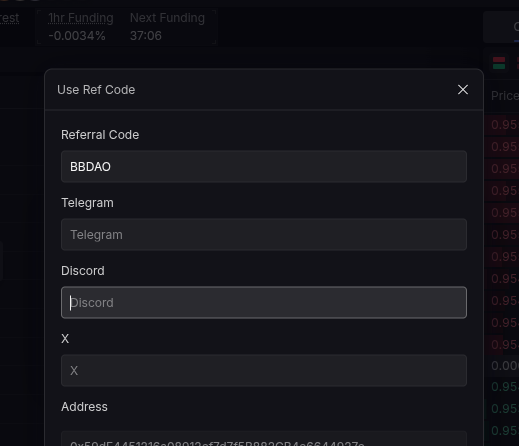
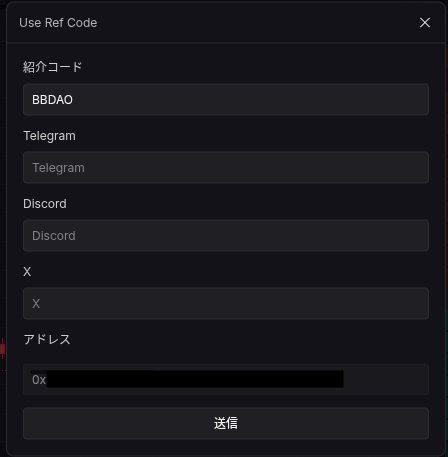
トラブルシュートガイドの説明文とスクリーンショットを更新

diff --git a/troubleshoot/index.html b/troubleshoot/index.html
@@ -241,7 +241,8 @@
           <div class="step-body">
             <h3>リファラルコードを登録</h3>
             <p>「Use Ref Code」の画面が表示されます。<br>
-            DiscordやXのアカウント入力は任意です。そのまま「Submit」を押せばリファラル登録完了です。</p>
+            必要事項を入力し、「Submit」を押せばリファラル登録完了です。<br>
+            ※紹介コードとアドレスは変更しないでください</p>
             <img src="img/pc_002.png" alt="Use Ref Code画面" class="step-img">
           </div>
         </div>
